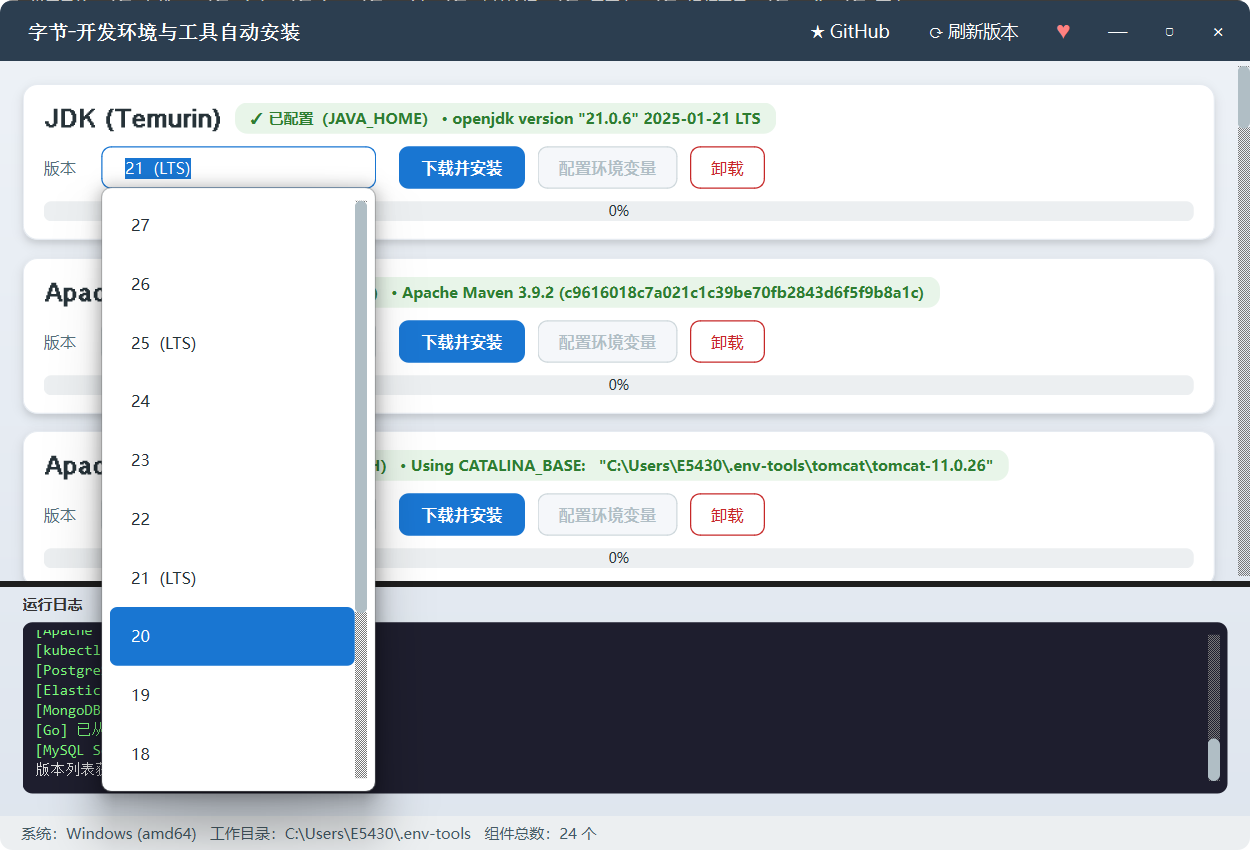
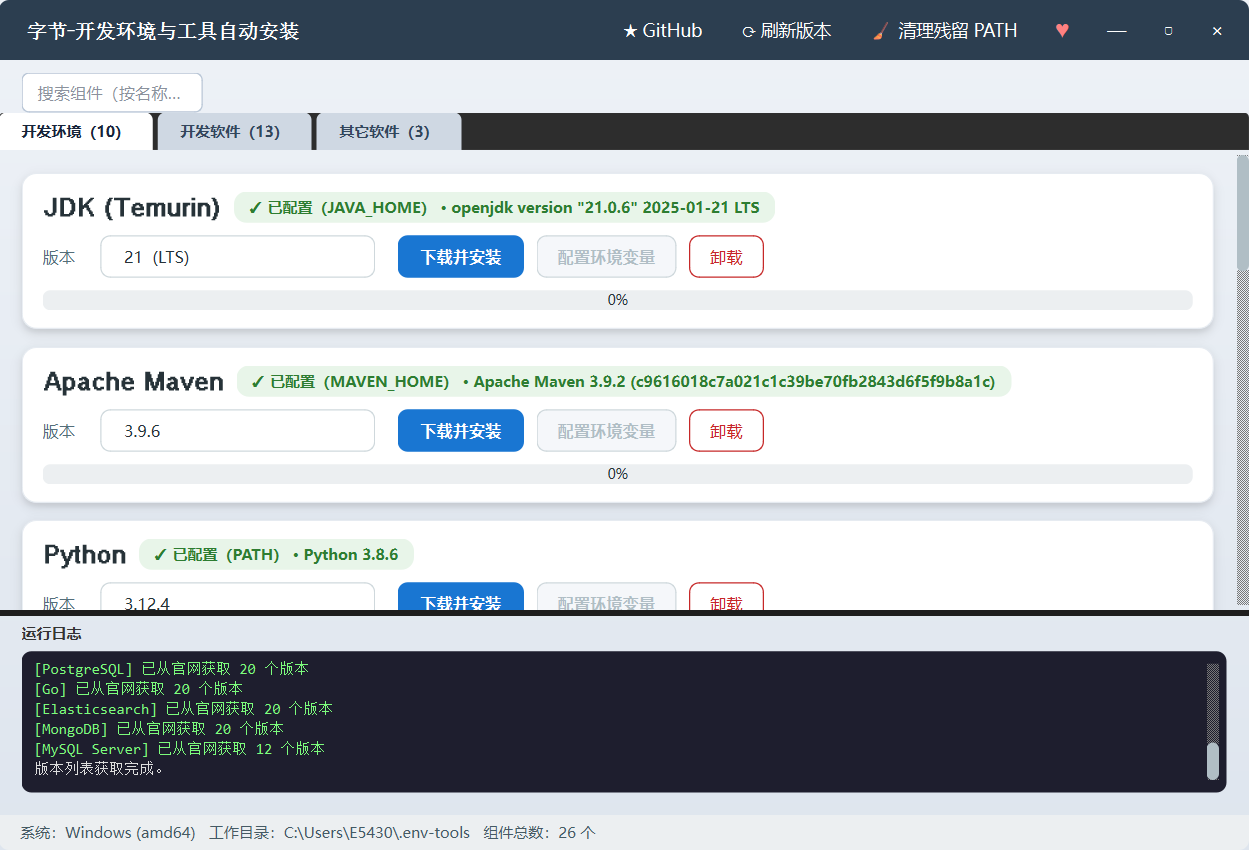
更改图片

diff --git a/.workbuddy/memory/2026-09-28.md b/.workbuddy/memory/2026-09-28.md
@@ -1,0 +1,48 @@
+# 2026-09-28
+
+## 排查：CI 同步产物到 Gitee Release 失败（v1.0.2）
+
+- 失败点：`.github/workflows/release.yml` 的 `sync-to-gitee` job，step「创建 Gitee Release」（日志 `[1/2]`）。
+- 报错：`curl: (35) OpenSSL SSL_connect: SSL_ERROR_SYSCALL in connection to gitee.com:443`，exit 35。
+- 结论：curl 35 是 TLS 握手阶段底层 TCP 被重置/超时，HTTP 请求未发出，与 token、owner/repo、参数无关（那些会返回 401/404 JSON）。
+- 验证：本机（国内网络）curl `https://gitee.com/api/v5/repos/jack_liujilong/byte-tools` 返回 200 / 0.3s，Gitee 服务与仓库路径均正常 → 根因是 GitHub Actions runner（境外）到 gitee.com 的国际链路不稳定。
+- 附带发现：step 顺序是「先发布 GitHub Release，再同步 Gitee」，所以 Gitee 失败时 GitHub 侧产物已完整，只需 rerun 失败 job 或手动补传。
+- 历史相关：v1.0.3 / v1.0.4 的 Gitee 同步失败是另一个坑——macos-13(Intel) runner 下线导致 job 永久 queued（已在 workflow 注释中停用该 matrix 项）。
+- 建议方向（尚未实施，待用户确认）：Gitee 相关 curl 加 `--retry/--retry-all-errors/--connect-timeout`；或把 sync-to-gitee 放到国内 self-hosted runner / 改本地脚本。
+
+## 实施：Gitee 同步加固（已提交，两次 commit）
+
+- 新增 `scripts/sync_gitee.sh`：Gitee Release 同步脚本，三个特性 —— 指数退避重试（默认 4 次：10/20/40s，抗 curl 35 抖动）、幂等（release 已存在复用 ID、附件同名跳过，Re-run 安全）、上传后回查附件清单校验（白名单缺一个即失败）。
+- `.github/workflows/release.yml` 的 `sync-to-gitee` 原第 4/5 步（裸 curl 创建+上传）替换为调用该脚本，另加「打印发布结果」「失败处理指引（if: failure()）」两步；runs-on 处注释说明可切 self-hosted。
+- README 补充可靠性说明与手动补同步命令（`gh release download` + 脚本）。
+- 本地验证：`bash -n` 语法 OK；用 Gitee 上已存在的 v1.0.1 跑只读幂等路径（复用 ID 1165549、跳过已存在附件、校验通过，退出 0）；错误分支（不存在仓库 + 假 token）能打印原始响应并 exit 1。
+- 注意：GitHub 仓库 owner 是 `jilong2026`，Gitee owner 是 `jack_liujilong`，两者不同（workflow 中 GITEE_OWNER 正确）。
+- 注意：Re-run 失败的 job 仍用旧 workflow，v1.0.2 需手动补同步；新 workflow 只对 push 之后新建的 tag 生效。
+
+## 跟进：中文重命名 + 补同步能力（commit 1734740）
+
+- 脚本按用户要求改为中文名 `scripts/同步Gitee产物.sh`（原 `scripts/sync_gitee.sh`），workflow/README 引用同步更新；workflow 里调用加引号 `"./scripts/同步Gitee产物.sh"`。
+- workflow 新增 `workflow_dispatch` 输入 `tag_name`，用于补同步历史 tag：build job 加 `if: github.event_name != 'workflow_dispatch'` 跳过构建；sync-to-gitee 加 `if: always() && (dispatch || needs.build.result=='success')`；TAG_NAME 改为 dispatch 感知表达式；「发布 GitHub Release」step 在 dispatch 时跳过。
+- 关键机制：workflow_dispatch 用的是**默认分支**上的 workflow 文件，所以只要把改动 push 到 master，即可立即对任意历史 tag 触发补同步，无需重打 tag。
+- 实测：Gitee 上 v1.0.2 查询返回 null —— 创建 Release 那步就失败了，Release 本身都不存在，补同步会创建并上传 4 个产物。
+
+## 收尾：脚本移到根目录（commit b0d67dc）
+
+- `同步Gitee产物.sh` 从 `scripts/` 移到项目根目录，`scripts/` 目录删除；workflow 内调用改为 `chmod +x "./同步Gitee产物.sh"` 与 `"./同步Gitee产物.sh"`。
+- 文档同步更新：README（说明段落 + 手动补同步命令 + 目录结构）、README_EN（目录结构）、CODE_WIKI（目录结构 + 第 978 段发布说明：白名单位置改为根目录脚本、补充三道保险与 workflow_dispatch 补同步）。
+- 验证：workflow YAML 解析 OK；根目录脚本只读跑 v1.0.1 幂等路径通过。
+
+## Windows 版同步脚本（commit 172b898）
+
+- 新增根目录 `同步Gitee产物.bat`，与 `.sh` 功能等价：curl 重试 + 幂等 + 附件校验；支持传参（`同步Gitee产物.bat <tag> <token> [assets_dir] [nopause]`）与双击交互输入。
+- 实测通过（v1.0.1 只读幂等路径）：复用 ID 1165549、跳过已存在附件、校验 OK、退出码 0。
+
+- 远程现状（18:56 核对）：origin/master = 172b898（已含全部改造）；远程 tag v1.0.1 → 483bbfc、v1.0.2 → 6c4cfc3，**都指向改造前的旧 commit**。所以 Re-run 历史 tag 的 job 一定会用旧 workflow（引用已删除的 scripts/sync_gitee.sh）而失败，历史 tag 只能靠 workflow_dispatch 补同步。
+- 关键机制：tag push 触发的 workflow 取自「该 tag 指向的 commit」，不是默认分支；而 workflow_dispatch 取自默认分支。发新版本时必须把 tag 打在最新 commit 上。
+
+### 写 Windows 批处理踩到的四个坑（重要，可复用）
+
+1. **UTF-8 编码的 .bat 会被 cmd 按 GBK 解析，中文乱码会破坏语法**（表现为 `'xxx' is not recognized`、行被莫名截断）。要么文件存 GBK（GitHub 上显示会乱码），要么内容保持纯 ASCII。本项目选后者：文件名中文、内容全英文。
+2. **`for /f "usebackq" ... in (`命令`)` 内嵌命令不能含单引号**——usebackq 下单引号被当作字面字符串，解析直接崩。改为「PowerShell 写临时文件（ASCII）+ bat 用 `set /p` / `findstr` 读取」。
+3. **PowerShell 5.1 不支持 `if` 表达式赋值**（`$x = if (...) {...}` 是 PS7 语法），也不允许 `catch {} | Out-File` 这种把管道接在语句块后。要在块内输出。
+4. 从 Git Bash 传中文文件名给 `cmd //c` 会因编码损坏找不到文件；测试时复制成英文临时名再跑。PowerShell 工具则禁止调用 cmd.exe。

diff --git a/.workbuddy/memory/MEMORY.md b/.workbuddy/memory/MEMORY.md
@@ -1,0 +1,13 @@
+# 项目长期约定（byte-tools）
+
+## 发布与 CI
+
+- 发布方式：推 tag（`git tag vX.Y.Z && git push origin vX.Y.Z`）触发 `.github/workflows/release.yml`，三平台（windows-latest / macos-15 / ubuntu-latest）PyInstaller 打包，草稿暂存后自动取消草稿发布 GitHub Release，再同步 Gitee。
+- Gitee 同步统一走项目根目录的 `同步Gitee产物.sh`（重试 + 幂等 + 附件校验），不要在 workflow 里裸写 curl。该脚本也可在本机手动执行做补救。
+- 用户偏好：脚本放项目根目录，不要放进 scripts/ 之类的子文件夹；Windows 场景要有可双击运行的 `.bat`（与 `.sh` 功能等价）。
+- 同步脚本有两份且必须同步维护：根目录 `同步Gitee产物.sh`（CI / Linux / macOS）与 `同步Gitee产物.bat`（Windows 手动补同步）。改白名单或流程时两个都要改。
+- `.bat` 内容必须纯 ASCII（cmd 按 GBK 解析 UTF-8 会破坏语法），文件名可中文。
+- 历史 tag 漏同步时，用 GitHub Actions 的 `workflow_dispatch`（输入 tag_name）补跑同步，不重新构建；它读的是默认分支上的 workflow，所以改动 push 到 master 后即可对任意历史 tag 生效。
+- 仓库 owner：GitHub = `jilong2026`，Gitee = `jack_liujilong`，两边不同名。
+- 已知两个历史坑：① `macos-13`(Intel) runner 已下线，加了会导致 job 永久 queued（已停用该 matrix 项）；② GitHub 境外 runner 连 gitee.com 会偶发 curl(35) SSL_ERROR_SYSCALL，靠脚本重试兜底，必要时把 sync-to-gitee 的 runs-on 改成国内 self-hosted runner。
+- 产物白名单（改 matrix 时必须同步维护）：byte-tools.exe / byte-tools-windows-x64.zip / byte-tools-macos-arm64.zip / byte-tools-linux-x64。
